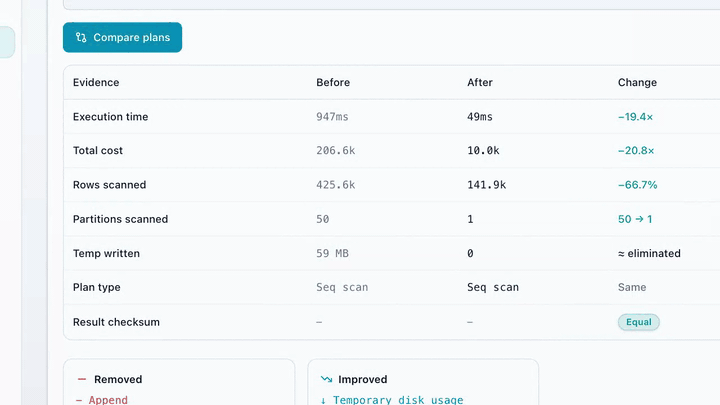
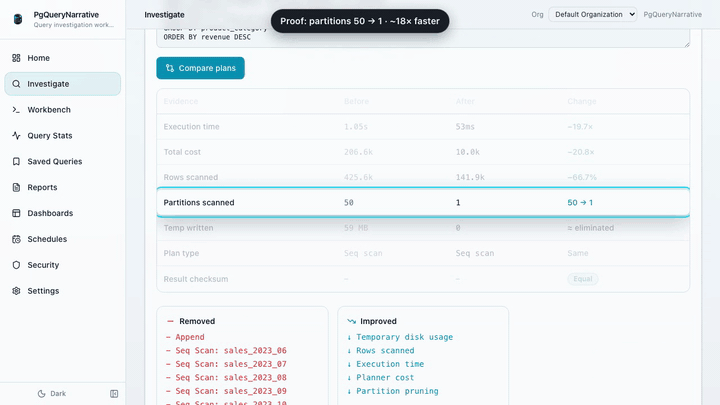
docs: readme fix

diff --git a/test/playwright/demo-workflow.spec.ts b/test/playwright/demo-workflow.spec.ts
@@ -1,8 +1,10 @@
-import { test, expect, type Page } from "@playwright/test";
+import { test, expect, type Page, type Browser } from "@playwright/test";
 
 /**
- * Compact README GIF. Scroll + highlight each beat; zoom only on compare
- * (dense proof metrics). Requires ≥1M-row demo.sales. Run: make demo-gif
+ * Compact README GIF — three beats: finding → compare proof → report.
+ * Scroll + highlight only (no camera zoom). Warm up off-camera so recording
+ * starts on a ready investigation. Requires ≥1M-row demo.sales.
+ * Run: make demo-gif
  */
 const BAD_SQL =
   "SELECT product_category, SUM(total_amount) AS revenue FROM demo.sales WHERE DATE_TRUNC('month', date) = DATE '2025-01-01' GROUP BY product_category ORDER BY revenue DESC";
@@ -13,19 +15,65 @@ GROUP BY product_category
 ORDER BY revenue DESC`;
 
 test.describe("Demo workflow capture", () => {
-  test("query investigation walkthrough", async ({ page }) => {
+  test("query investigation walkthrough", async ({ page, browser }) => {
     test.setTimeout(300_000);
 
+    const readyURL = await warmReadyInvestigation(browser);
+
+    // Recording starts here on an already-analyzed investigation (no load spinner beat).
+    await page.goto(readyURL);
+    await expect(page.getByText(/date_trunc|function-wrapped|no pruning/i).first()).toBeVisible({
+      timeout: 30_000,
+    });
+    await installDemoChrome(page);
+
+    // Beat 1 — finding
+    await showCaption(page, "Finding: DATE_TRUNC blocks partition pruning");
+    await focusRegion(page, "finding");
+    await page.waitForTimeout(1600);
+
+    // Beat 2 — compare proof (partitions row dominates)
+    await clearFocus(page);
+    await page.getByRole("button", { name: /Compare plans/i }).click();
+    await expect(page.getByRole("cell", { name: "Partitions scanned" })).toBeVisible({
+      timeout: 120_000,
+    });
+    await expect(page.getByText("-100.0%")).toHaveCount(0);
+    await showCaption(page, "Proof: partitions 50 → 1 · ~18× faster");
+    await focusRegion(page, "partitions-row");
+    await page.waitForTimeout(3200);
+
+    // Beat 3 — report
+    await clearFocus(page);
+    await page.getByRole("button", { name: /Generate report/i }).click();
+    await expect(page.getByText(/Query Investigation: Slow dashboard query/i)).toBeVisible({
+      timeout: 60_000,
+    });
+    await showCaption(page, "Report: evidence you can ship");
+    await focusRegion(page, "report-sql");
+    await page.waitForTimeout(1400);
+    await clearFocus(page);
+    await page.waitForTimeout(300);
+  });
+});
+
+type FocusTarget = "finding" | "partitions-row" | "report-sql";
+
+/** Create + analyze the investigation off-camera; return /investigate/:id URL. */
+async function warmReadyInvestigation(browser: Browser): Promise<string> {
+  const baseURL = process.env.PLAYWRIGHT_BASE_URL || "http://127.0.0.1:8080";
+  const warm = await browser.newContext({
+    baseURL,
+    viewport: { width: 1280, height: 720 },
+  });
+  try {
+    const page = await warm.newPage();
     const params = new URLSearchParams({
       title: "Slow dashboard query",
       sql: BAD_SQL,
       candidate: GOOD_SQL,
     });
     await page.goto(`/investigate?${params.toString()}`);
-
-    await installDemoChrome(page);
-    await showCaption(page, "Investigating DATE_TRUNC on a partitioned table…");
-
     await expect(page.getByText(/Query Investigation/i).first()).toBeVisible({ timeout: 120_000 });
     await expect(page.getByRole("heading", { name: /Execution plan/i })).toBeVisible({
       timeout: 120_000,
@@ -33,47 +81,13 @@ test.describe("Demo workflow capture", () => {
     await expect(page.getByText(/date_trunc|function-wrapped|no pruning/i).first()).toBeVisible({
       timeout: 60_000,
     });
-
-    // Scroll + highlight only — SQL and findings are readable at full frame.
-    await showCaption(page, "DATE_TRUNC on the partition key → no pruning");
-    await focusRegion(page, "source-sql");
-    await page.waitForTimeout(1100);
-
-    await showCaption(page, "Plan evidence: function-wrapped key blocks pruning");
-    await focusRegion(page, "finding");
-    await page.waitForTimeout(1400);
-
-    await showCaption(page, "Candidate: sargable month range");
-    await focusRegion(page, "candidate");
-    await page.waitForTimeout(1100);
-
-    await clearFocus(page);
-    await page.getByRole("button", { name: /Compare plans/i }).click();
-    await showCaption(page, "Running EXPLAIN ANALYZE compare…");
-    await expect(page.getByRole("cell", { name: "Partitions scanned" })).toBeVisible({
-      timeout: 120_000,
-    });
-    await expect(page.getByText("-100.0%")).toHaveCount(0);
-
-    // Zoom only here — compare metrics need to be readable in the GIF.
-    await showCaption(page, "Proof: partitions 50 → 1 · ~18× faster");
-    await focusRegion(page, "compare", 1.35);
-    await page.waitForTimeout(2400);
-
-    await resetCamera(page);
-    await page.getByRole("button", { name: /Generate report/i }).click();
-    await expect(page.getByText(/Query Investigation: Slow dashboard query/i)).toBeVisible({
-      timeout: 60_000,
-    });
-    await showCaption(page, "Engineering report with plan evidence");
-    await focusRegion(page, "report-sql");
-    await page.waitForTimeout(1100);
-    await clearFocus(page);
-    await page.waitForTimeout(350);
-  });
-});
-
-type FocusTarget = "source-sql" | "finding" | "candidate" | "compare" | "report-sql";
+    // Prefer the persisted investigation route (fast reload for the recorded page).
+    await expect(page).toHaveURL(/\/investigate\/[^/?]+/, { timeout: 30_000 });
+    return page.url();
+  } finally {
+    await warm.close();
+  }
+}
 
 async function installDemoChrome(page: Page): Promise<void> {
   await page.evaluate(() => {
@@ -96,10 +110,14 @@ async function installDemoChrome(page: Page): Promise<void> {
           outline: 2px solid #22d3ee !important;
           outline-offset: 3px !important;
           border-radius: 8px;
-          box-shadow: 0 0 0 6px rgba(34,211,238,0.18) !important;
+          box-shadow: 0 0 0 6px rgba(34,211,238,0.18), 0 12px 40px rgba(0,0,0,0.25) !important;
+          position: relative;
+          z-index: 5;
         }
-        html.pqn-demo-zooming, html.pqn-demo-zooming body {
-          transition: transform 0.45s ease;
+        .pqn-demo-dim {
+          opacity: 0.28 !important;
+          filter: grayscale(0.35);
+          transition: opacity 0.25s ease, filter 0.25s ease;
         }
       `;
       document.head.appendChild(style);
@@ -123,84 +141,65 @@ async function showCaption(page: Page, text: string): Promise<void> {
 async function clearFocus(page: Page): Promise<void> {
   await page.evaluate(() => {
     document.querySelectorAll(".pqn-demo-focus").forEach((n) => n.classList.remove("pqn-demo-focus"));
+    document.querySelectorAll(".pqn-demo-dim").forEach((n) => n.classList.remove("pqn-demo-dim"));
   });
 }
 
-async function resetCamera(page: Page): Promise<void> {
+/** Scroll into view and highlight. For partitions-row, dim sibling rows. */
+async function focusRegion(page: Page, target: FocusTarget): Promise<void> {
   await clearFocus(page);
-  await page.evaluate(() => {
-    const html = document.documentElement;
-    html.classList.add("pqn-demo-zooming");
-    html.style.transform = "none";
-    html.style.transformOrigin = "50% 50%";
-  });
-  await page.waitForTimeout(280);
-}
-
-/** Scroll + highlight a region. Pass zoom > 1 only when the GIF needs it (compare). */
-async function focusRegion(page: Page, target: FocusTarget, zoom = 1): Promise<void> {
-  await clearFocus(page);
-  const ok = await page.evaluate(
-    ({ targetName, zoomLevel }) => {
-      const pick = (): Element | null => {
-        if (targetName === "source-sql") {
-          const title = Array.from(document.querySelectorAll("h3,div,p,span")).find((el) =>
-            /Source query/i.test(el.textContent || "")
-          );
-          return (
-            title?.closest("[class*='rounded'],section,article,div")?.querySelector("pre") ||
-            title?.closest("div") ||
-            null
-          );
-        }
-        if (targetName === "finding") {
-          const hit = Array.from(document.querySelectorAll("li,div,p,span")).find((el) =>
-            /date_trunc|function-wrapped|no pruning/i.test(el.textContent || "")
-          );
-          return hit?.closest("li,div[class*='border'],article") || hit || null;
-        }
-        if (targetName === "candidate") {
-          return document.querySelector("textarea") || null;
-        }
-        if (targetName === "compare") {
-          const cell = Array.from(document.querySelectorAll("td")).find((el) =>
-            /Partitions scanned/i.test(el.textContent || "")
-          );
-          return cell?.closest("table") || document.querySelector("table") || null;
-        }
-        if (targetName === "report-sql") {
-          const title = Array.from(document.querySelectorAll("h2,h3,p,div")).find((el) =>
-            /SQL Query|Source query|DATE_TRUNC/i.test(el.textContent || "")
-          );
-          return document.querySelector("pre") || title?.closest("section,div") || title || null;
-        }
-        return null;
-      };
-
-      const el = pick();
-      if (!el || !(el instanceof HTMLElement)) return false;
-      el.classList.add("pqn-demo-focus");
-      el.scrollIntoView({ block: "center", inline: "nearest", behavior: "instant" as ScrollBehavior });
-
-      const html = document.documentElement;
-      if (zoomLevel > 1.01) {
-        const r = el.getBoundingClientRect();
-        const cx = r.left + r.width / 2;
-        const cy = r.top + r.height / 2;
-        const ox = Math.max(10, Math.min(90, (cx / window.innerWidth) * 100));
-        const oy = Math.max(15, Math.min(85, (cy / window.innerHeight) * 100));
-        html.classList.add("pqn-demo-zooming");
-        html.style.transformOrigin = `${ox}% ${oy}%`;
-        html.style.transform = `scale(${zoomLevel})`;
-      } else {
-        html.style.transform = "none";
+  const ok = await page.evaluate((targetName) => {
+    const pick = (): HTMLElement | null => {
+      if (targetName === "finding") {
+        const hit = Array.from(document.querySelectorAll("li,div,p,span")).find((el) =>
+          /date_trunc|function-wrapped|no pruning/i.test(el.textContent || "")
+        );
+        const card = hit?.closest("li,div[class*='border'],article");
+        return (card instanceof HTMLElement ? card : hit instanceof HTMLElement ? hit : null);
       }
-      return true;
-    },
-    { targetName: target, zoomLevel: zoom }
-  );
+      if (targetName === "partitions-row") {
+        const cell = Array.from(document.querySelectorAll("td")).find((el) =>
+          /Partitions scanned/i.test(el.textContent || "")
+        );
+        const row = cell?.closest("tr");
+        return row instanceof HTMLElement ? row : null;
+      }
+      if (targetName === "report-sql") {
+        const title = Array.from(document.querySelectorAll("h2,h3,p,div")).find((el) =>
+          /SQL Query|Source query|DATE_TRUNC/i.test(el.textContent || "")
+        );
+        const pre = document.querySelector("pre");
+        if (pre instanceof HTMLElement) return pre;
+        const wrap = title?.closest("section,div");
+        return wrap instanceof HTMLElement ? wrap : title instanceof HTMLElement ? title : null;
+      }
+      return null;
+    };
+
+    const el = pick();
+    if (!el) return false;
+
+    if (targetName === "partitions-row") {
+      const table = el.closest("table");
+      if (table) {
+        table.querySelectorAll("tbody tr, tr").forEach((tr) => {
+          if (tr !== el) tr.classList.add("pqn-demo-dim");
+        });
+        // Dim nearby chrome so the proof row owns the frame.
+        const panel = table.closest("section,div[class*='rounded'],article") || table.parentElement;
+        panel?.querySelectorAll("thead, caption, p, h2, h3, button").forEach((n) => {
+          if (!el.contains(n)) n.classList.add("pqn-demo-dim");
+        });
+      }
+    }
+
+    el.classList.add("pqn-demo-focus");
+    el.scrollIntoView({ block: "center", inline: "nearest", behavior: "instant" as ScrollBehavior });
+    return true;
+  }, target);
+
   if (!ok) {
     await page.waitForTimeout(300);
   }
-  await page.waitForTimeout(zoom > 1.01 ? 380 : 200);
+  await page.waitForTimeout(220);
 }

diff --git a/README.md b/README.md
@@ -28,10 +28,10 @@ and produce engineering-ready reports.
 </p>
 
 <p align="center">
-  <img src="docs/assets/demo-workflow.gif" alt="Query Investigation workflow: regression inbox → inspect SQL → EXPLAIN plan → compare → engineering report" width="720">
+  <img src="docs/assets/demo-workflow.gif" alt="Query Investigation: finding blocked partition pruning, comparing a rewrite (50→1 partitions), then generating a report" width="720">
 </p>
 
-<p align="center"><sub>Live UI walkthrough (10M-row seed): <code>DATE_TRUNC</code> → finding → range rewrite → compare (partitions 50→1).</sub></p>
+<p align="center"><sub>From blocked partition pruning to a verified rewrite (50→1 partitions).</sub></p>
 
 ---
 
